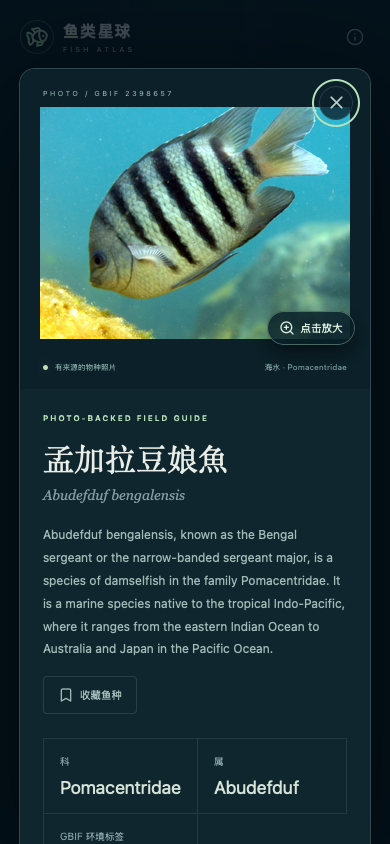
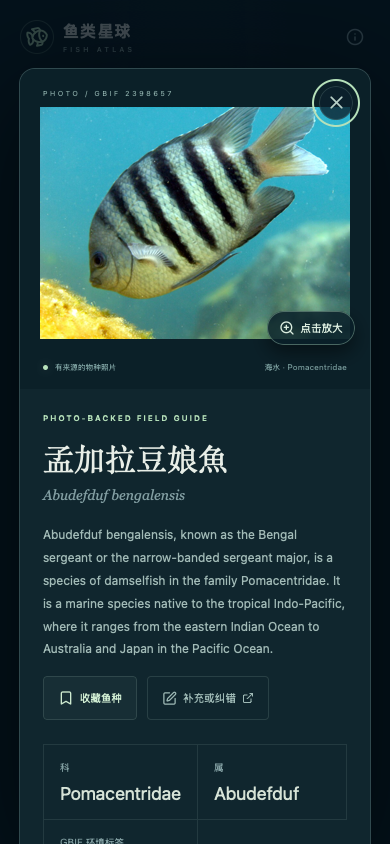
Add GitHub issue feedback for fish data corrections and additions

diff --git a/src/App.tsx b/src/App.tsx
@@ -60,6 +60,7 @@ import Evidence, { Taxonomy } from "./components/Evidence";
 import { geography } from "./lib/evidence";
 import { FishImage } from "./components/FishArt";
 import ImeInput from "./components/ImeInput";
+import FeedbackLink, { FeedbackNote } from "./components/FeedbackLink";
 import { Select, SelectContent, SelectItem, SelectTrigger, SelectValue } from "./components/ui/select";
 const Globe = lazy(() => import("./components/Globe"));
 const Catalog = lazy(() => import("./components/Catalog"));
@@ -439,6 +440,7 @@ function FishDetail({
             <GitCompareArrows size={16} />
             {compared ? "已加入对比" : "加入对比"}
           </button>
+          <FeedbackLink fish={fish} />
         </div>
         <div className="metrics">
           <Metric
@@ -529,6 +531,7 @@ function FishDetail({
             <p>本图为项目原创示意插画，不能用于物种鉴定。</p>
           )}
         </details>
+        <FeedbackNote />
       </div>
     </DetailContainer>
   );
@@ -557,7 +560,7 @@ function PhotoDetail({ profile, close, saved, toggleSave, inline }: {
         <h2>{profile.name}</h2>
         <p className="scientific">{profile.scientific}</p>
         {profile.intro && <p className="detail-intro" lang="en">{profile.intro}</p>}
-        <div className="detail-actions"><button className={`soft-button ${saved ? "selected" : ""}`} onClick={toggleSave}><Bookmark size={16} fill={saved ? "currentColor" : "none"} />{saved ? "已收藏" : "收藏鱼种"}</button></div>
+        <div className="detail-actions"><button className={`soft-button ${saved ? "selected" : ""}`} onClick={toggleSave}><Bookmark size={16} fill={saved ? "currentColor" : "none"} />{saved ? "已收藏" : "收藏鱼种"}</button><FeedbackLink fish={profile} /></div>
         <div className="metrics"><Metric label="科" value={profile.family} /><Metric label="属" value={profile.scientific.split(" ")[0]} /><Metric label="GBIF 环境标签" value={waterName} /></div>
         <section className="detail-section"><h3><Globe2 size={16} />地理分布</h3><p>{fishLocations(profile).length ? `已关联原生水域：${fishLocations(profile).map((place) => place.label).join("、")}。` : distributions[profile.id]?.unlocatedReason}</p><BasinTags fish={profile} /><DistributionDetails fish={profile} /></section>
         <section className="detail-section"><h3><Waves size={16} />野外习性</h3><p lang={profile.behavior ? "en" : undefined}>{profile.behavior || "资料待补充；不能根据近缘鱼推断本物种的食性或相处方式。"}</p></section>
@@ -567,6 +570,7 @@ function PhotoDetail({ profile, close, saved, toggleSave, inline }: {
           <p>英文文字：Wikipedia contributors，<a href={profile.wikipediaUrl} target="_blank" rel="noreferrer">物种词条与编辑历史</a>，<a href="https://creativecommons.org/licenses/by-sa/4.0/" target="_blank" rel="noreferrer">CC BY-SA 4.0</a>；本站仅保留短段落，不视为专家复核。</p>
           <p>照片：{profile.photo.author} · <a href={profile.photo.pageUrl} target="_blank" rel="noreferrer">原始文件</a> · <a href={profile.photo.licenseUrl} target="_blank" rel="noreferrer">{profile.photo.license}</a>。</p>
         </details>
+        <FeedbackNote />
       </div>
     </DetailContainer>
   );
@@ -1373,6 +1377,7 @@ export default function App() {
             数据与图片来源
             <ExternalLink size={11} />
           </button>
+          <FeedbackLink />
         </span>
       </footer>
       {storageWarning && (
@@ -1605,6 +1610,12 @@ export default function App() {
             GBIF，缺失字段保留空值。扩充目录的学名和科属来自 GBIF Backbone Taxonomy，按 CC BY 4.0 署名。识别照片来自 Wikimedia
             Commons，每张照片在详情中列出作者、原始页面与许可；示意插画由本项目绘制，不作为鉴定依据。
           </p>
+          <section className="feedback-invite" aria-label="参与完善鱼类资料">
+            <h3>一起完善这份图鉴</h3>
+            <p>补充缺失的习性或养护资料，指出名称、分布和图片中的错误，也可以推荐尚未收录的鱼。无需知道所有参数，只要说明需要改哪一处；有参考链接或图片出处更方便核对。</p>
+            <FeedbackLink>在 GitHub 提交建议</FeedbackLink>
+            <p className="feedback-note">需要 GitHub 登录。提交的建议会公开显示，核对后再更新图鉴；点击入口不会自动提交。</p>
+          </section>
           <h3>隐私与收藏</h3>
           <p>
             收藏保存在当前浏览器，不上传服务器。所有图鉴与图片随应用提供，浏览时无需登录或连接外部数据服务。

diff --git a/tests/browser/feedback.spec.ts b/tests/browser/feedback.spec.ts
@@ -1,0 +1,71 @@
+import { expect, test, type Locator, type Page } from "@playwright/test";
+
+const repositoryIssuePath = "/korbinjoe/fish-atlas/issues/new";
+
+async function expectIssueLink(link: Locator, page: Page, canonicalHash: string) {
+  await expect(link).toBeVisible();
+  await expect(link).toHaveAttribute("target", "_blank");
+  const rel = (await link.getAttribute("rel"))!.split(/\s+/);
+  expect(rel).toEqual(expect.arrayContaining(["noopener", "noreferrer"]));
+  const issue = new URL((await link.getAttribute("href"))!);
+  expect(issue.origin).toBe("https://github.com");
+  expect(issue.pathname).toBe(repositoryIssuePath);
+  expect(issue.searchParams.get("template")).toBe("fish-data.yml");
+  expect(issue.searchParams.get("title")).toMatch(/^\[鱼类资料\]/);
+  const source = new URL(issue.searchParams.get("page_url")!);
+  expect(source.origin).toBe(new URL(page.url()).origin);
+  expect(source.pathname).toBe("/");
+  expect(source.search).toBe("");
+  expect(source.hash).toBe(canonicalHash);
+  return issue;
+}
+
+for (const fish of [
+  { id: "betta-splendens", name: "暹罗斗鱼", scientific: "Betta splendens" },
+  { id: "wm-amphiprion-percula", name: "真小丑鱼", scientific: "Amphiprion percula" },
+]) {
+  test(`${fish.name} feedback carries its name, scientific name and clean detail URL`, async ({ page }) => {
+    await page.goto(`/?v=feedback-check#/species/${fish.id}?q=%E9%B1%BC&region=asia&plan=private-tank`);
+    const detail = page.getByRole("dialog", { name: `${fish.name}图鉴`, exact: true });
+    await expect(detail).toBeVisible();
+    const link = detail.getByRole("link", { name: `补充或纠错${fish.name}的资料`, exact: true });
+    await expect(link).toHaveCount(1);
+    const issue = await expectIssueLink(link, page, `#/species/${fish.id}`);
+    expect(issue.searchParams.get("fish")).toBe(fish.name);
+    expect(issue.searchParams.get("scientific")).toBe(fish.scientific);
+    expect(issue.searchParams.get("title")).toContain(fish.name);
+    await expect(detail.locator(".detail-body > .feedback-note")).toBeVisible();
+    await expect(detail.locator(".detail-body > .feedback-note")).toContainText("发现资料缺失或有误？");
+    await expect(detail.locator(".detail-body > .feedback-note")).toContainText("在 GitHub 登录后填写建议");
+    await expect(detail.locator(".source-details").getByRole("link", { name: /补充或纠错/ })).toHaveCount(0);
+  });
+}
+
+test("footer and about offer a generic GitHub form without leaking search or planner parameters", async ({ page }) => {
+  await page.goto("/?v=feedback-check#/atlas?q=%E9%B1%BC&region=asia&plan=private-tank");
+  const footerLink = page.locator(".site-footer").getByRole("link", { name: "补充或纠错鱼类资料", exact: true });
+  await expectIssueLink(footerLink, page, "#/atlas");
+  await page.getByRole("button", { name: "关于图鉴", exact: true }).click();
+  const about = page.getByRole("dialog", { name: "关于鱼类星球", exact: true });
+  const suggestion = about.getByRole("link", { name: "在 GitHub 提交建议", exact: true });
+  await expectIssueLink(suggestion, page, "#/atlas");
+  await expect(about).toContainText(/推荐.*鱼|新增.*鱼|收录.*鱼/);
+});
+
+test("phone detail keeps one reachable feedback action with a full touch target and no horizontal overflow", async ({ page }) => {
+  await page.setViewportSize({ width: 390, height: 844 });
+  await page.goto("/#/species/betta-splendens");
+  const detail = page.getByRole("dialog", { name: "暹罗斗鱼图鉴", exact: true });
+  const link = detail.getByRole("link", { name: "补充或纠错暹罗斗鱼的资料", exact: true });
+  await expect(link).toHaveCount(1);
+  await link.scrollIntoViewIfNeeded();
+  await expectIssueLink(link, page, "#/species/betta-splendens");
+  const box = (await link.boundingBox())!;
+  expect(box.height).toBeGreaterThanOrEqual(44);
+  expect(box.x).toBeGreaterThanOrEqual(0);
+  expect(box.x + box.width).toBeLessThanOrEqual(390);
+  expect(box.y).toBeGreaterThanOrEqual(0);
+  expect(box.y + box.height).toBeLessThanOrEqual(844);
+  expect(await detail.evaluate(element => element.scrollWidth <= element.clientWidth)).toBe(true);
+  expect(await page.evaluate(() => document.documentElement.scrollWidth <= innerWidth)).toBe(true);
+});

diff --git a/src/components/FeedbackLink.tsx b/src/components/FeedbackLink.tsx
@@ -1,0 +1,23 @@
+import { ExternalLink, SquarePen } from "lucide-react";
+import { createFeedbackUrl } from "../lib/feedback";
+import type { FeedbackFish } from "../lib/feedback";
+
+export default function FeedbackLink({ fish, children, className = "" }: {
+  fish?: FeedbackFish; children?: React.ReactNode; className?: string;
+}) {
+  return <a
+    className={`soft-button feedback-link ${className}`.trim()}
+    href={createFeedbackUrl({ fish, pageUrl: window.location.href })}
+    target="_blank"
+    rel="noopener noreferrer"
+    aria-label={fish ? `补充或纠错${fish.name}的资料` : children ? undefined : "补充或纠错鱼类资料"}
+  >
+    <SquarePen size={15} aria-hidden="true" />
+    <span>{children ?? "补充或纠错"}</span>
+    <ExternalLink size={12} aria-hidden="true" />
+  </a>;
+}
+
+export function FeedbackNote() {
+  return <p className="feedback-note">发现资料缺失或有误？点击“补充或纠错”，在 GitHub 登录后填写建议，附上参考链接或图片出处。建议经核对后更新图鉴。</p>;
+}

diff --git a/src/lib/feedback.ts b/src/lib/feedback.ts
@@ -1,0 +1,21 @@
+export const feedbackRepository = "korbinjoe/fish-atlas";
+
+export type FeedbackFish = { id: string; name: string; scientific: string };
+
+export function createFeedbackUrl({ fish, pageUrl }: { fish?: FeedbackFish; pageUrl: string }): string {
+  const page = new URL(pageUrl);
+  // Share the species permalink, without search filters or a user's tank plan.
+  page.search = "";
+  page.hash = fish ? `/species/${encodeURIComponent(fish.id)}` : "/atlas";
+  const issue = new URL(`https://github.com/${feedbackRepository}/issues/new`);
+  issue.searchParams.set("template", "fish-data.yml");
+  issue.searchParams.set("title", fish
+    ? `[鱼类资料] ${fish.name}（${fish.scientific}）补充或纠错`
+    : "[鱼类资料] 补充资料或推荐新鱼");
+  if (fish) {
+    issue.searchParams.set("fish", fish.name);
+    issue.searchParams.set("scientific", fish.scientific);
+  }
+  issue.searchParams.set("page_url", page.href);
+  return issue.href;
+}

diff --git a/src/styles.css b/src/styles.css
@@ -1384,8 +1384,44 @@ p {
 }
 .detail-actions {
   display: flex;
+  flex-wrap: wrap;
   gap: 10px;
   margin-top: 21px;
+}
+.feedback-link {
+  min-height: 44px;
+  text-decoration: none;
+  justify-content: center;
+  flex-shrink: 0;
+}
+.feedback-link:focus-visible {
+  outline: 2px solid #bddfcb;
+  outline-offset: 3px;
+}
+.feedback-note {
+  margin-top: 16px;
+  color: #96b5ae;
+  font-size: 11px;
+  line-height: 1.8;
+}
+.feedback-invite {
+  margin-top: 26px;
+  padding: 0 18px 18px;
+  border: 1px solid var(--line);
+  border-radius: 8px;
+  background: #bddfcb06;
+}
+.feedback-invite .feedback-link {
+  display: inline-flex;
+  margin-top: 16px;
+  color: #bddfcb;
+}
+.site-footer .feedback-link {
+  font-size: 10px;
+  padding: 6px 10px;
+}
+.site-footer > span:last-child {
+  flex-wrap: wrap;
 }
 .soft-button {
   font-size: 10px;

diff --git a/README.md b/README.md
@@ -26,6 +26,7 @@ npm run preview -- --port 4174
 
 ## 已实现
 
+- 鱼类资料反馈：每条照片图鉴的操作栏提供“补充或纠错”，页脚和关于页提供通用入口。跳转到本仓库的中文 GitHub Issue 表单，自动填写鱼名、学名及干净的图鉴链接，支持补充资料、修正错误和推荐新鱼。用户自行登录并提交，建议核对后更新；详见[参与完善资料](CONTRIBUTING.md)。
 - 地球与鱼类详情联动：点击照片后地球平滑移到侧边，完整详情内联展开；使用左右方向键、上一种／下一种按钮或照片缩略栏，在当前筛选结果内连续浏览。地球转向并高亮当前鱼的原生水域，支持快速连按、照片大图隔离和关闭后的视角／焦点恢复；手机采用上方地球与下方详情，支持减少动态效果。详见[联动浏览记录](docs/globe-linked-reader.md)。
 - 地球拖拽、缩放、流域聚焦、重置与可选自转；默认显示 Natural Earth 10m 主要河网与湖泊，放大显示重要支流，流域轮廓仅在选中或查看归属时出现。海岸线与河流使用球面矢量绘制，缩放不依赖低分辨率纹理；183 种有照片的鱼都可在探索列表查看，其中 183 种均已关联到具名原生流域、海域、湖泊或小河流水系，成为地球照片标记。可按名称、定位状态、水体与具体水域筛选；手机端先展示地球与筛选。照片标记是有水域来源的**地理展示位置**，同水域照片围绕共同锚点紧凑排列，悬停或选中时显示归属名称、高亮水域并以短引导线连接位置；筛选不改变代表水域，不表示真实采集点或物种完整自然分布。
 - 全球流域层采用 GRDC 2020 的 **520 个主要河流／湖泊流域**：可点击陆地选流域，或在搜索面板按中文／英文名及大洲查找；默认显示主要河网，查看归属时显示对应流域边界，鱼类图鉴使用同一流域筛选。当前 183 种鱼已关联到 133 个水域（43 个 GRDC 流域、42 个海域、11 个湖泊／潟湖、37 个补充河流水系），原文与关系依据在详情可查；剩余 14 种已按馆藏、分类修订和具名水系调查补齐。详见[原生水域补齐记录](docs/native-distribution-expansion.md)、[全球流域口径](docs/global-basin-coverage.md)与[高清河网记录](docs/globe-vector-rivers.md)。

diff --git a/CONTRIBUTING.md b/CONTRIBUTING.md
@@ -1,0 +1,15 @@
+# 一起完善鱼类资料
+
+发现图鉴资料缺失或有误，可以点击鱼类详情里的“补充或纠错”。入口会填写鱼名、学名和图鉴链接，再打开 GitHub 表单；登录 GitHub 后由你确认并提交。
+
+也可以直接[补充资料、纠错或推荐新鱼](https://github.com/korbinjoe/fish-atlas/issues/new?template=fish-data.yml)。不必知道所有养鱼参数，说明需要改哪一处即可。
+
+- **补充资料**：描述要增加的习性、养护、分布或其他信息。
+- **修正错误**：写出当前内容与建议改成的内容，包括名称、参数、定位或照片匹配问题。
+- **推荐新鱼**：提供你知道的鱼名和希望收录的原因；学名、图片与其他资料可随后补充。
+
+有参考链接、文献或自己的观察更方便核对。提供照片时，请附原始页面、作者和授权方式；自己拍摄的照片可注明是否同意用于项目。不要把尚不确定的养护参数当成已核实事实，也无需上传完整文章正文。
+
+Issue 中的建议公开可见。维护者核对物种身份、信息来源与照片许可后再更新图鉴；提交 Issue 不会自动改写网站数据。无需把收藏、鱼缸规划或个人联系方式放进反馈。
+
+网页入口采用 [GitHub 支持的 Issue 表单查询参数](https://docs.github.com/en/issues/tracking-your-work-with-issues/using-issues/creating-an-issue#creating-an-issue-from-a-url-query)预填内容，只携带物种信息和永久链接，不包含页面搜索条件或鱼缸规划参数。

diff --git a/docs/fish-data-feedback.md b/docs/fish-data-feedback.md
@@ -1,0 +1,19 @@
+# 鱼类资料补充与纠错入口
+
+鱼类详情（包括地球联动阅读区和普通详情弹窗）的操作栏新增“补充或纠错”。所有 183 种照片图鉴共用此入口；页脚和关于页提供不绑定鱼种的入口，可推荐新鱼。
+
+入口打开 `korbinjoe/fish-atlas` 的中文 GitHub Issue 表单，预填鱼名、学名与图鉴永久链接。URL 不携带搜索条件、版本参数或鱼缸规划数据。用户自行登录 GitHub，选择补充资料、修正错误或推荐新鱼，再确认提交；维护者核对后更新。
+
+表单仅要求反馈类型和说明，参考资料及照片来源可选。需要照片时提供原始页面、作者与授权方式，避免用不明来源图片替换图鉴。使用方式见 [参与完善资料](../CONTRIBUTING.md)。
+
+## 验证
+
+2026-10-13 生产构建通过。Chrome 和 WebKit 的 8 项新增反馈检查通过，覆盖两类详情预填、页面参数清理、通用入口、唯一入口、手机 44px 点击区和横向溢出；32 项图鉴与地球联动回归通过。
+
+桌面入口：
+
+![鱼类详情补充或纠错入口](./fish-data-feedback-desktop.png)
+
+手机入口：
+
+![手机补充或纠错入口](./fish-data-feedback-mobile.png)
